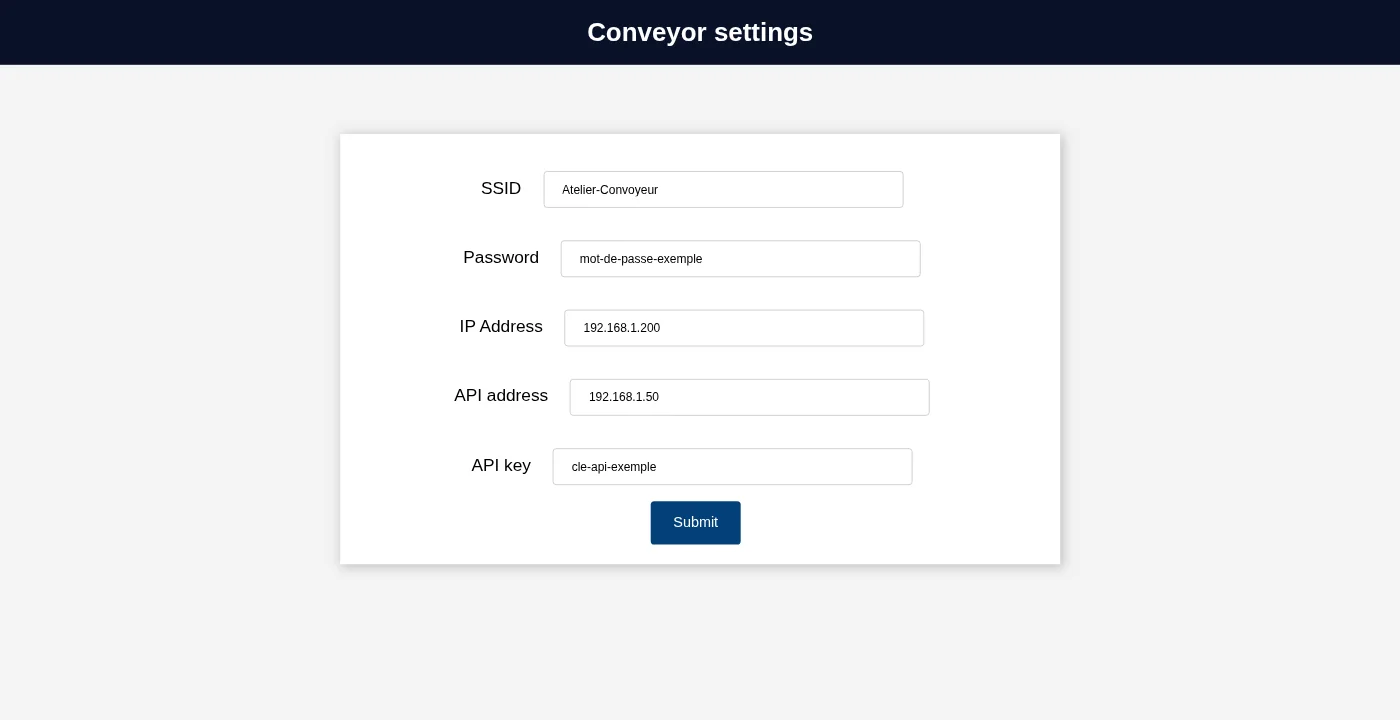
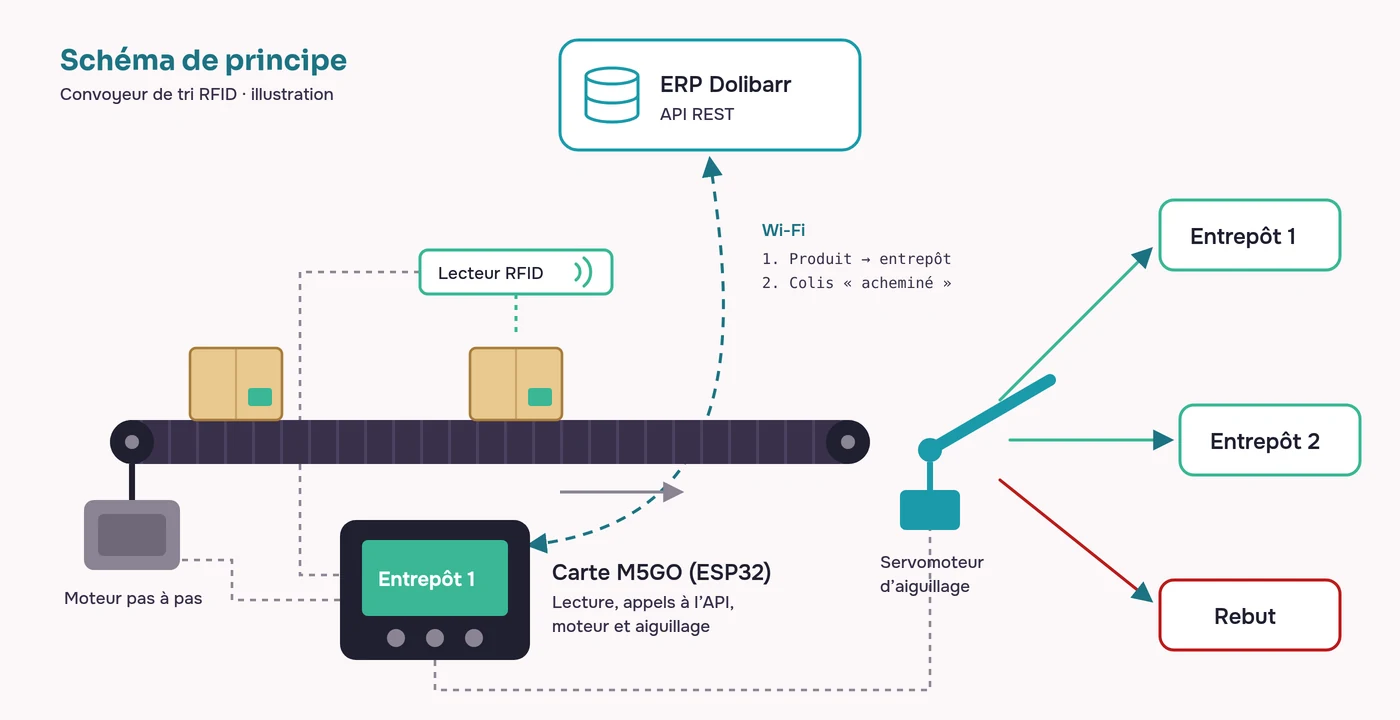
Use a principle diagram as the RFID conveyor cover
There is no photo of the mini conveyor. The new cover is a flat diagram
labelled as an illustration: belt, RFID reader, M5GO board linked to
Dolibarr over Wi-Fi, and the servo routing to the two warehouses or
the reject bin.

diff --git a/src/content/projects/convoyeur-rfid.md b/src/content/projects/convoyeur-rfid.md
@@ -12,7 +12,7 @@ role: "Développement embarqué : lecture RFID, pilotage des moteurs, appels à 
 year: "2024"
 featured: true
 image: "convoyeur-rfid.webp"
-imageAlt: "Page de configuration du convoyeur : champs réseau Wi-Fi, mot de passe, adresse IP, adresse et clé de l’API"
+imageAlt: "Schéma de principe du convoyeur : colis sur un tapis, lecteur RFID, carte M5GO reliée en Wi-Fi à l’ERP Dolibarr, et servomoteur qui oriente vers l’entrepôt 1, l’entrepôt 2 ou le rebut"
 ---
 
 ## Contexte
